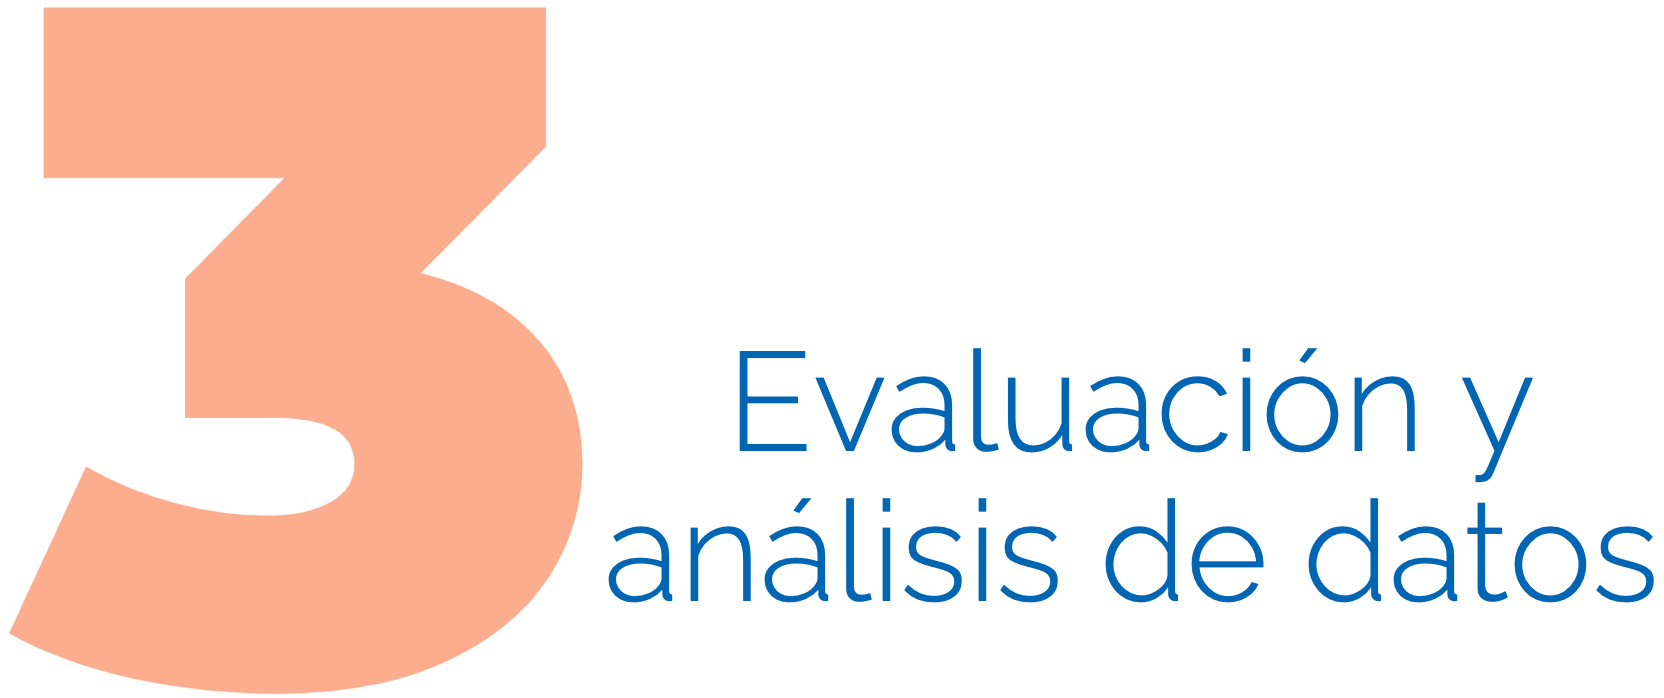
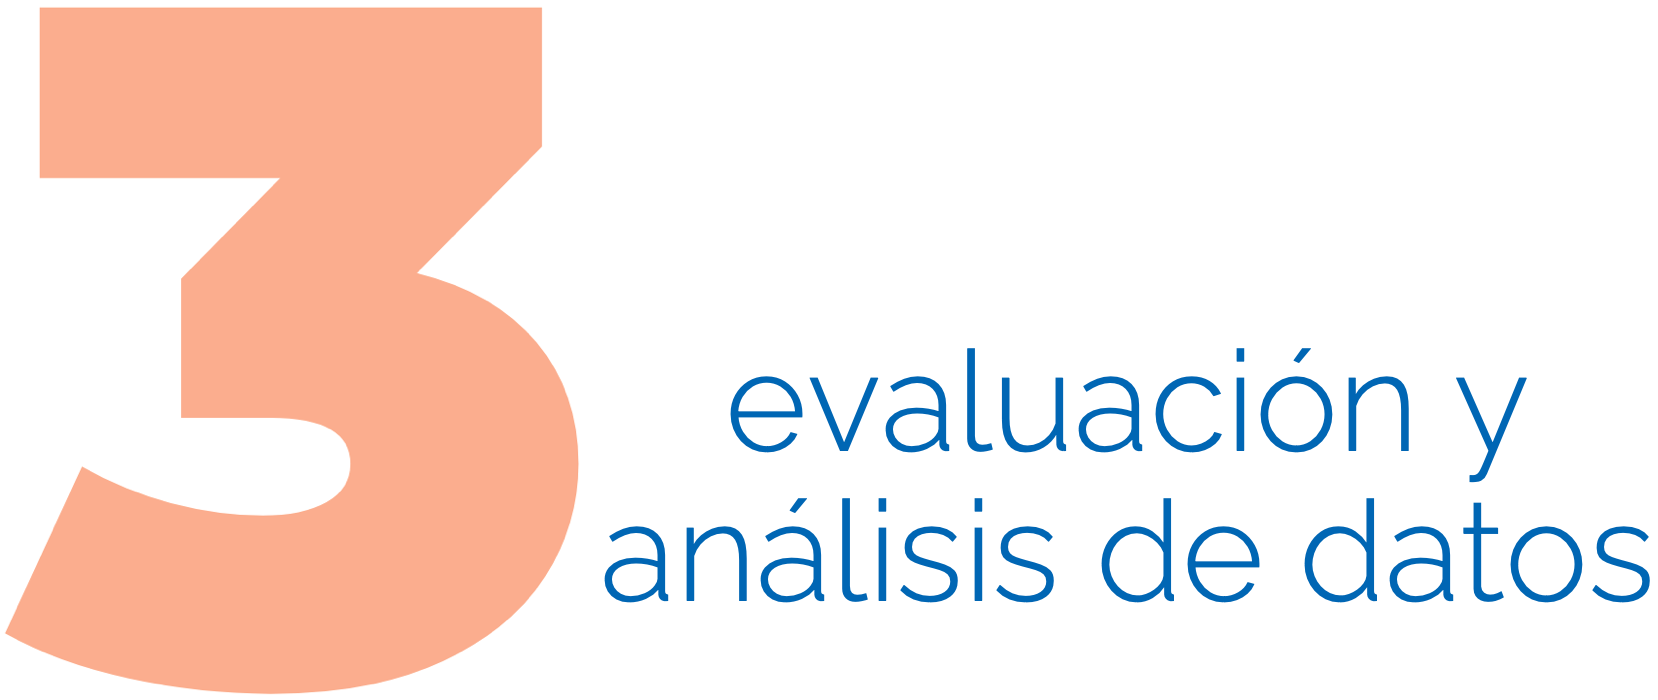
análisis de datos

diff --git a/Untitled.html b/Untitled.html
@@ -380,6 +380,20 @@ probar recordatorios de problemas de memoria para el objetivo uno del paciente "
 
 - 
 ]
+
+
+---
+background-image: url(https://github.com/danielesnm/SCEDs/blob/main/img/3.analisis%20dedatos.png?raw=true)
+background-position: 50% 75%
+background-size: 95%
+---
+
+
+
+
+
+
+
 ---
 .pull-right[.center[&lt;img style="border-radius: 50%;" src="https://i.pinimg.com/564x/f6/a7/5a/f6a75a82c478cca0f315cf1b8f2b63c8.jpg" width="400px"/&gt;]
 ---
